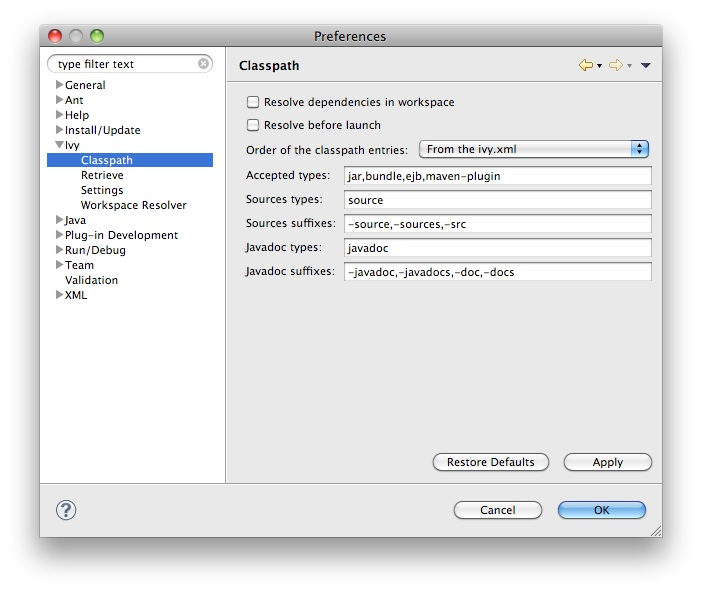
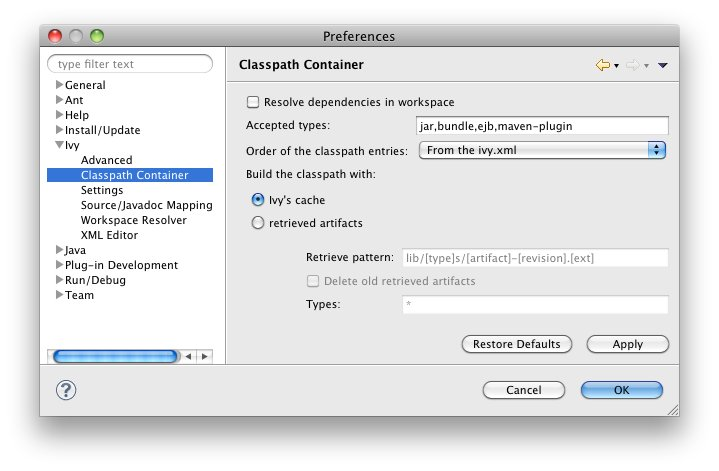
First review of the screenshots
git-svn-id: https://svn.apache.org/repos/asf/ant/ivy/ivyde/trunk@1238084 13f79535-47bb-0310-9956-ffa450edef68

diff --git a/doc/preferences.html b/doc/preferences.html
@@ -30,7 +30,6 @@ The global configuration can be found in the preferences of Eclipse (menu Window
 
 <h1><a name="global"></a>Global Ivy preferences</h1>
 
-<b><font color="red">TODO: SCREENSHOT NOT UP TO DATE</font></b>
 <center><img src="images/pref.jpg"/></center>
 
 <h4>Offline</h4>
@@ -48,14 +47,16 @@ The global configuration can be found in the preferences of Eclipse (menu Window
 
 <h1><a name="advanced"></a>Advanced</h1>
 
-<b><font color="red">TODO: SCREENSHOT</font></b>
+<center><img src="images/pref_advanced.jpg"/></center>
 
 <h4>Resolve before launch:</h4>
 <p>An IvyDE container can be used in the classpath of a launch configuration, and the container can be resolved on each launch. See the documentation about <a href="cpc/launch.html">launch configurations</a> for further information on this feature.</p>
 
+<h4>Use extended resolve id</h4>
+<p>A resolve id is an identifier which helps Ivy to make cache of results of resolve. By default IvyDE each the id which is composed of the organisation and the module name. An extended resolve id is also composed of the status, branch and revision. If you have troubles with the resolve of multiple versions of the same project within the same workspace, you should probably enable this option.</p>
+
 <h1><a name="classpath"></a>Classpath container</h1>
 
-<b><font color="red">TODO: SCREENSHOT NOT UP TO DATE</font></b>
 <center><img src="images/pref_classpath.jpg"/></center>
 
 <h4>Resolve dependencies in workpace:</h4>
@@ -75,7 +76,6 @@ The global configuration can be found in the preferences of Eclipse (menu Window
 
 <h1><a name="settings"></a>Ivy settings</h1>
 
-<b><font color="red">TODO: SCREENSHOT NOT UP TO DATE</font></b>
 <center><img src="images/pref_settings.jpg"/></center>
 
 <h4>Reload the settings only on demand:</h4>
@@ -87,8 +87,7 @@ The global configuration can be found in the preferences of Eclipse (menu Window
 
 <h1><a name="mapping"></a>Source/Javadoc mapping</h1>
 
-<b><font color="red">TODO: SCREENSHOT NOT UP TO DATE</font></b>
-<center><img src="images/pref_workspace.jpg"/></center>
+<center><img src="images/pref_source_javadoc_mapping.jpg"/></center>
 
 <h4>Sources types:</h4>
 <p>A comma separated list of Ivy "type" names which should be considered sources.</p>
@@ -107,7 +106,6 @@ The global configuration can be found in the preferences of Eclipse (menu Window
 
 <h1><a name="workspace"></a>Workspace resolver</h1>
 
-<b><font color="red">TODO: SCREENSHOT NOT UP TO DATE</font></b>
 <center><img src="images/pref_workspace.jpg"/></center>
 
 <h4>Closing trigger resolve:</h4>
@@ -119,8 +117,7 @@ The global configuration can be found in the preferences of Eclipse (menu Window
 
 <h1><a name="xmleditor"></a>XML Editor</h1>
 
-<b><font color="red">TODO: SCREENSHOT</font></b>
-<center><img src="images/xmleditor_color_config.jpg"/></center>
+<center><img src="images/xml_editor_color.jpg"/></center>
 
 This configuration panel allow you to change the color used in the <a href="ivyeditor.html">Ivy file editor</a> and the <a href="settingseditor.html">Ivy settings editor</a>.
 </textarea>

diff --git a/doc/index.html b/doc/index.html
@@ -24,7 +24,7 @@
 </head>
 <body>
 	<textarea id="xooki-source">
-Apache IvyDE is the Eclipse plugin which integrates Apache Ivy's dependency management into Eclipse&#153;. It lets you manage your dependencies declared in an ivy.xml in your Java Eclipse projects, or any other kind of project which needs dependency management.
+Apache IvyDE Eclipse plugin integrates Apache Ivy's dependency management into Eclipse&#153;. It lets you manage your dependencies declared in an ivy.xml in your Java Eclipse projects, or any other kind of project which needs dependency management.
 
 A summary of the features it provides follows:
 <ul>
@@ -33,6 +33,7 @@ A summary of the features it provides follows:
 <li><a href="settingseditor.html">Ivy settings files editor</a>: completion for XML tags, attributes, and attribute values.</li>
 <li><a href="cp_container.html">Ivy console</a>: presents every log from Ivy to assist in debugging a failing resolve.</li>
 <li><a href="revdepexplorer.html">Reverse Dependency Explorer</a>: helps you work with conflicting dependencies amongst several projects.</li>
+<li>Resolve and retrieve for non Java project: use Ivy within Eclipse to manage files non necessarly Java-related</li>
 </ul>
 
 Apache IvyDE can be also used with other plugins like <a href="cpc/wtp.html">WTP</a> and <a href="ant.html">Apache Ant</a>.

diff --git a/doc/cpc/resolve.html b/doc/cpc/resolve.html
@@ -30,6 +30,8 @@ This command will invoke the "resolve" Ivy task and update your classpath contai
 
 There is also a "refresh" action: this action is similar to the resolve one, but does not perform a full resolve if a report already exists in the cache. This is particularly useful if you work with Apache Ant and a command line so that you avoid two full resolves.  It is also the default action performed on classpath containers when the Eclipse workspace is opened (<b>Windows > Preferences > Ivy</b>), in effect restoring the classpath container to its state prior to the last closing of the workspace if no other action is performed against the ivy.xml in the meantime.
 
+And there is a "reload settings" action: by default IvyDE does reload ivy settings files each time a resolve it required. But in case the ivy settings file is remote, this take make the user experience quite slow. To work around that, you can check in the <a href="../preferences.html">preference page</a> the option to only load on demand, and use the "reload settings" action in the context menu.
+
 <center><img src="../images/cp_resolve.jpg"></center><br/>
 
 You can also trigger a resolve (not a refresh!) of every IvyDE classpath container in the workspace via the button in the tool bar of Eclipse.

diff --git a/doc/cpc/workspace.html b/doc/cpc/workspace.html
@@ -32,7 +32,7 @@ Consider a multi-module application with a considerable amount of code in each o
 
 First, each application module should be separate a project in Eclipse, and each of these projects should have a configured IvyDE classpath container.
 
-To enable resolution in the workspace, go to the advanced configuration panel of the classpath container and select <b>Resolve dependencies in workspace</b>.
+To enable resolution in the workspace, go to the "classpath" panel of the classpath container and select <b>Resolve dependencies in workspace</b>.
 
 <center><img src="../images/workspace.jpg"/></center>
 

diff --git a/doc/cp_container.html b/doc/cp_container.html
@@ -24,7 +24,7 @@
 </head>
 <body>
 	<textarea id="xooki-source">
-The IvyDE classpath container will help you manage the classpath of your Eclipse&#153; projects, based on the dependencies declared in Ivy files found in your projects.
+The IvyDE classpath container will help you manage the classpath of your Java&#153; Eclipse&#153; projects, based on the dependencies declared in Ivy files found in your projects.
 
 Some of the tasks that can be performed on the container include:
 <ul>
